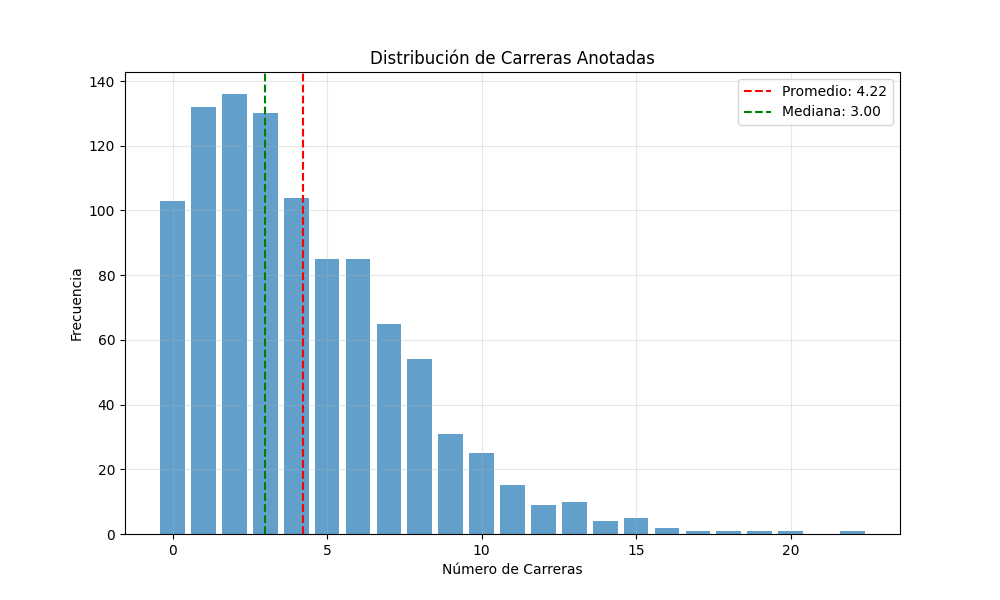
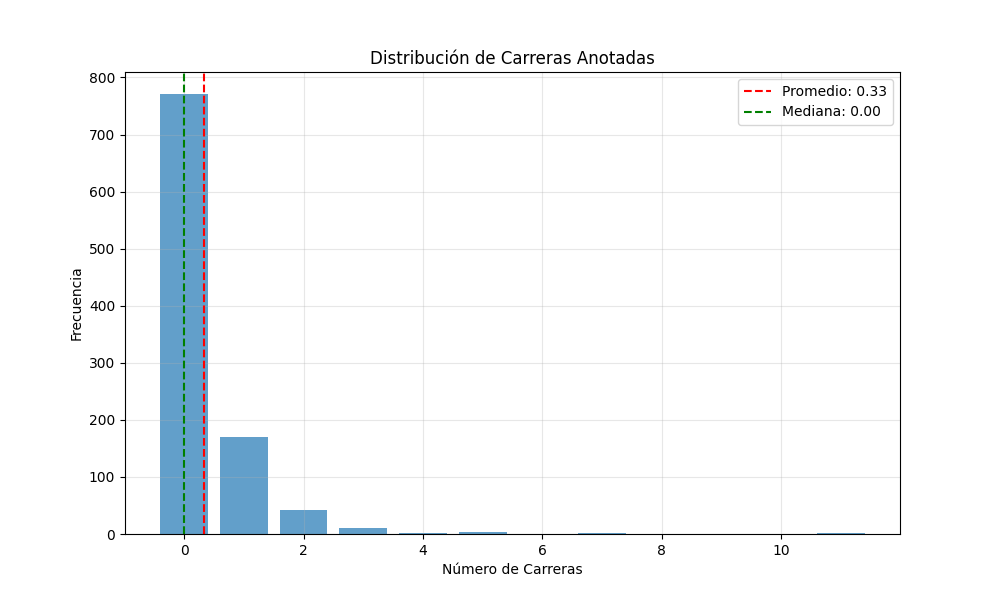
Simulador

diff --git a/optimizador_genetico.py b/optimizador_genetico.py
@@ -14,7 +14,12 @@ class BaseballGeneticOptimizer:
                  crossover_rate: float = 0.8,
                  elitism_count: int = 2):
         self.lineup = lineup
-        self.bullpen_realdata_list = bullpen_realdata_list
+        # Filtrar bullpens vacíos para evitar errores
+        self.bullpen_realdata_list = [
+            (bullpen, real_data)
+            for (bullpen, real_data) in bullpen_realdata_list
+            if bullpen and len(bullpen) > 0
+        ]
         self.population_size = population_size
         self.generations = generations
         self.mutation_rate = mutation_rate
@@ -486,92 +491,101 @@ if __name__ == "__main__":
     ]
     bullpen3 = [
     # Nombre, ERA, WHIP, K/9, Rol, Resistencia
-    Pitcher("Emerson Hancock", 6.91, 1.71, 6.91, PitcherRole.STARTER, 5.0),
-    Pitcher("Casey Legumina", 2.08, 1.15, 7.62, PitcherRole.MIDDLE_RELIEF, 1.0),
-    Pitcher("Eduard Bazardo", 4.74, 1.21, 5.65, PitcherRole.MIDDLE_RELIEF, 1.0),
-    Pitcher("Troy Taylor", 12.00, 2.17, 3.00, PitcherRole.MIDDLE_RELIEF, 1.0),
+        Pitcher("Emerson Hancock", 6.91, 1.71, 6.91, PitcherRole.STARTER, 5.0),
+        Pitcher("Casey Legumina", 2.08, 1.15, 7.62, PitcherRole.MIDDLE_RELIEF, 1.0),
+        Pitcher("Eduard Bazardo", 4.74, 1.21, 5.65, PitcherRole.MIDDLE_RELIEF, 1.0),
+        Pitcher("Troy Taylor", 12.00, 2.17, 3.00, PitcherRole.MIDDLE_RELIEF, 1.0),
 ]
 
     bullpen4 = [
-    Pitcher("Dylan Cease", 4.60, 1.34, 11.11, PitcherRole.STARTER, 6.0),
-    Pitcher("Jason Adam", 1.61, 0.94, 11.28, PitcherRole.SETUP, 1.0),
-    Pitcher("Robert Suarez", 2.84, 0.79, 9.95, PitcherRole.CLOSER, 1.0),
-    Pitcher("Jeremiah Estrada", 2.75, 0.97, 12.43, PitcherRole.MIDDLE_RELIEF, 1.0),
+        Pitcher("Dylan Cease", 4.60, 1.34, 11.11, PitcherRole.STARTER, 6.0),
+        Pitcher("Jason Adam", 1.61, 0.94, 11.28, PitcherRole.SETUP, 1.0),
+        Pitcher("Robert Suarez", 2.84, 0.79, 9.95, PitcherRole.CLOSER, 1.0),
+        Pitcher("Jeremiah Estrada", 2.75, 0.97, 12.43, PitcherRole.MIDDLE_RELIEF, 1.0),
     ]
     bullpen5 = [
         # Nombre, ERA, WHIP, K/9, Rol, Resistencia
-    Pitcher("JP Sears", 2.80, 1.00, 7.20, PitcherRole.STARTER, 6.0),
-    Pitcher("Justin Sterner", 2.21, 1.08, 11.07, PitcherRole.MIDDLE_RELIEF, 1.0),
-    Pitcher("Grant Holman", 0.75, 1.00, 4.50, PitcherRole.MIDDLE_RELIEF, 1.0),
-    Pitcher("Tyler Ferguson", 1.96, 1.04, 7.91, PitcherRole.MIDDLE_RELIEF, 1.0),
-    Pitcher("Mason Miller", 4.70, 0.98, 17.63, PitcherRole.CLOSER, 1.0),
+        Pitcher("JP Sears", 2.80, 1.00, 7.20, PitcherRole.STARTER, 6.0),
+        Pitcher("Justin Sterner", 2.21, 1.08, 11.07, PitcherRole.MIDDLE_RELIEF, 1.0),
+        Pitcher("Grant Holman", 0.75, 1.00, 4.50, PitcherRole.MIDDLE_RELIEF, 1.0),
+        Pitcher("Tyler Ferguson", 1.96, 1.04, 7.91, PitcherRole.MIDDLE_RELIEF, 1.0),
+        Pitcher("Mason Miller", 4.70, 0.98, 17.63, PitcherRole.CLOSER, 1.0),
 
     ]
     #
     bullpen6 = [
-    Pitcher("Michael King", 2.32, 0.99, 10.01, PitcherRole.STARTER, 6.0),
-    Pitcher("Adrián Morejón", 3.57, 1.13, 7.50, PitcherRole.MIDDLE_RELIEF, 1.0),
-    Pitcher("Wandy Peralta", 7.04, 1.57, 6.46, PitcherRole.MIDDLE_RELIEF, 1.0),
-    Pitcher("Ryan Bergert", 0.00, 0.25, 4.50, PitcherRole.MIDDLE_RELIEF, 1.0),
+        Pitcher("Michael King", 2.32, 0.99, 10.01, PitcherRole.STARTER, 6.0),
+        Pitcher("Adrián Morejón", 3.57, 1.13, 7.50, PitcherRole.MIDDLE_RELIEF, 1.0),
+        Pitcher("Wandy Peralta", 7.04, 1.57, 6.46, PitcherRole.MIDDLE_RELIEF, 1.0),
+        Pitcher("Ryan Bergert", 0.00, 0.25, 4.50, PitcherRole.MIDDLE_RELIEF, 1.0),
     ]
     #yankees vs rays 1
     bullpen7 = [
-    Pitcher("Taj Bradley", 4.24, 1.26, 6.75, PitcherRole.STARTER, 6.0),
-    Pitcher("Mason Montgomery", 4.11, 1.11, 11.74, PitcherRole.MIDDLE_RELIEF, 1.0),
-    Pitcher("Manuel Rodríguez", 2.29, 0.92, 8.68, PitcherRole.MIDDLE_RELIEF, 1.0),
-    Pitcher("Mason Englert", 6.00, 1.50, 9.00, PitcherRole.MIDDLE_RELIEF, 1.0),
-    Pitcher("Edwin Uceta", 5.60, 1.53, 8.40, PitcherRole.MIDDLE_RELIEF, 1.0),
-    Pitcher("Pete Fairbanks", 2.65, 1.29, 9.00, PitcherRole.CLOSER, 1.0),
+        Pitcher("Taj Bradley", 4.24, 1.26, 6.75, PitcherRole.STARTER, 6.0),
+        Pitcher("Mason Montgomery", 4.11, 1.11, 11.74, PitcherRole.MIDDLE_RELIEF, 1.0),
+        Pitcher("Manuel Rodríguez", 2.29, 0.92, 8.68, PitcherRole.MIDDLE_RELIEF, 1.0),
+        Pitcher("Mason Englert", 6.00, 1.50, 9.00, PitcherRole.MIDDLE_RELIEF, 1.0),
+        Pitcher("Edwin Uceta", 5.60, 1.53, 8.40, PitcherRole.MIDDLE_RELIEF, 1.0),
+        Pitcher("Pete Fairbanks", 2.65, 1.29, 9.00, PitcherRole.CLOSER, 1.0),
     ]
     #yankees vs rays 2
     bullpen8 = [
-    Pitcher("Zack Littell", 4.31, 1.12, 5.30, PitcherRole.STARTER, 6.0),
-    Pitcher("Garrett Cleavinger", 2.25, 0.75, 10.00, PitcherRole.MIDDLE_RELIEF, 1.0),
-    Pitcher("Edwin Uceta", 5.60, 1.53, 8.40, PitcherRole.MIDDLE_RELIEF, 1.0),
-    Pitcher("Pete Fairbanks", 2.65, 1.29, 8.47, PitcherRole.CLOSER, 1.0),
+        Pitcher("Zack Littell", 4.31, 1.12, 5.30, PitcherRole.STARTER, 6.0),
+        Pitcher("Garrett Cleavinger", 2.25, 0.75, 10.00, PitcherRole.MIDDLE_RELIEF, 1.0),
+        Pitcher("Edwin Uceta", 5.60, 1.53, 8.40, PitcherRole.MIDDLE_RELIEF, 1.0),
+        Pitcher("Pete Fairbanks", 2.65, 1.29, 8.47, PitcherRole.CLOSER, 1.0),
     ]
     bullpen9 = [
         #yankees vs rays 3
-    Pitcher("Ryan Pepiot", 3.93, 1.29, 8.05, PitcherRole.STARTER, 6.0),
-    Pitcher("Mason Montgomery", 4.11, 1.11, 11.74, PitcherRole.MIDDLE_RELIEF, 1.0),
-    Pitcher("Eric Orze", 1.10, 1.35, 4.96, PitcherRole.MIDDLE_RELIEF, 1.0),
-    Pitcher("Manuel Rodríguez", 2.65, 1.06, 8.00, PitcherRole.MIDDLE_RELIEF, 1.0),
-    Pitcher("Garrett Cleavinger", 2.25, 0.75, 10.00, PitcherRole.MIDDLE_RELIEF, 1.0),
+        Pitcher("Ryan Pepiot", 3.93, 1.29, 8.05, PitcherRole.STARTER, 6.0),
+        Pitcher("Mason Montgomery", 4.11, 1.11, 11.74, PitcherRole.MIDDLE_RELIEF, 1.0),
+        Pitcher("Eric Orze", 1.10, 1.35, 4.96, PitcherRole.MIDDLE_RELIEF, 1.0),
+        Pitcher("Manuel Rodríguez", 2.65, 1.06, 8.00, PitcherRole.MIDDLE_RELIEF, 1.0),
+        Pitcher("Garrett Cleavinger", 2.25, 0.75, 10.00, PitcherRole.MIDDLE_RELIEF, 1.0),
     ]
     bullpen10 = [
         #yankees vs baltimore 1
-    Pitcher("Cade Povich", 5.55, 1.54, 7.32, PitcherRole.STARTER, 5.0),
-    Pitcher("Seranthony Domínguez", 4.26, 1.34, 6.80, PitcherRole.MIDDLE_RELIEF, 1.0),
-    Pitcher("Keegan Akin", 3.26, 1.34, 8.40, PitcherRole.MIDDLE_RELIEF, 1.0),
-    Pitcher("Yennier Canó", 4.40, 1.40, 6.40, PitcherRole.MIDDLE_RELIEF, 1.0),
-    Pitcher("Gregory Soto", 4.85, 1.62, 10.38, PitcherRole.MIDDLE_RELIEF, 1.0),
-    Pitcher("Bryan Baker", 2.08, 1.04, 10.38, PitcherRole.MIDDLE_RELIEF, 1.0),
-    Pitcher("Félix Bautista", 2.25, 1.00, 11.25, PitcherRole.CLOSER, 1.0),
+        Pitcher("Cade Povich", 5.55, 1.54, 7.32, PitcherRole.STARTER, 5.0),
+        Pitcher("Seranthony Domínguez", 4.26, 1.34, 6.80, PitcherRole.MIDDLE_RELIEF, 1.0),
+        Pitcher("Keegan Akin", 3.26, 1.34, 8.40, PitcherRole.MIDDLE_RELIEF, 1.0),
+        Pitcher("Yennier Canó", 4.40, 1.40, 6.40, PitcherRole.MIDDLE_RELIEF, 1.0),
+        Pitcher("Gregory Soto", 4.85, 1.62, 10.38, PitcherRole.MIDDLE_RELIEF, 1.0),
+        Pitcher("Bryan Baker", 2.08, 1.04, 10.38, PitcherRole.MIDDLE_RELIEF, 1.0),
+        Pitcher("Félix Bautista", 2.25, 1.00, 11.25, PitcherRole.CLOSER, 1.0),
     ]
     bullpen11 = [
         #yankees vs blue jays 1
-    Pitcher("Chris Bassitt", 3.16, 1.27, 9.64, PitcherRole.STARTER, 6.0),
-    Pitcher("Brendon Little", 1.86, 1.14, 13.5, PitcherRole.MIDDLE_RELIEF, 1.0),
-    Pitcher("Yariel Rodríguez", 4.26, 1.21, 8.83, PitcherRole.MIDDLE_RELIEF, 1.0),
-    Pitcher("Chad Green", 3.38, 1.07, 13.43, PitcherRole.MIDDLE_RELIEF, 1.0),
+        Pitcher("Chris Bassitt", 3.16, 1.27, 9.64, PitcherRole.STARTER, 6.0),
+        Pitcher("Brendon Little", 1.86, 1.14, 13.5, PitcherRole.MIDDLE_RELIEF, 1.0),
+        Pitcher("Yariel Rodríguez", 4.26, 1.21, 8.83, PitcherRole.MIDDLE_RELIEF, 1.0),
+        Pitcher("Chad Green", 3.38, 1.07, 13.43, PitcherRole.MIDDLE_RELIEF, 1.0),
     ]
     bullpen12 = [
         #yankees vs blue jays 2
-    Pitcher("Max Fried", 1.11, 0.94, 8.19, PitcherRole.STARTER, 6.0),
-    Pitcher("Yerry De Los Santos", 0.00, 1.00, 9.00, PitcherRole.MIDDLE_RELIEF, 1.0),
-    Pitcher("Tyler Matzek", 5.40, 3.30, 9.00, PitcherRole.MIDDLE_RELIEF, 1.0),
+        Pitcher("Max Fried", 1.11, 0.94, 8.19, PitcherRole.STARTER, 6.0),
+        Pitcher("Yerry De Los Santos", 0.00, 1.00, 9.00, PitcherRole.MIDDLE_RELIEF, 1.0),
+        Pitcher("Tyler Matzek", 5.40, 3.30, 9.00, PitcherRole.MIDDLE_RELIEF, 1.0),
 
     ]
     bullpen13 = [
         #yankees vs blue jays 3
-    Pitcher("José Berríos", 4.33, 1.42, 8.48, PitcherRole.STARTER, 6.0),
-    Pitcher("Brendon Little", 1.86, 1.14, 13.5, PitcherRole.MIDDLE_RELIEF, 1.0),
-    Pitcher("Yimi García", 3.71, 1.12, 12.71, PitcherRole.MIDDLE_RELIEF, 1.0),
-    Pitcher("Mason Fluharty", 2.16, 0.60, 8.64, PitcherRole.MIDDLE_RELIEF, 1.0),
-    Pitcher("Jeff Hoffman", 6.05, 1.19, 14.42, PitcherRole.CLOSER, 1.0),
+        Pitcher("José Berríos", 4.33, 1.42, 8.48, PitcherRole.STARTER, 6.0),
+        Pitcher("Brendon Little", 1.86, 1.14, 13.5, PitcherRole.MIDDLE_RELIEF, 1.0),
+        Pitcher("Yimi García", 3.71, 1.12, 12.71, PitcherRole.MIDDLE_RELIEF, 1.0),
+        Pitcher("Mason Fluharty", 2.16, 0.60, 8.64, PitcherRole.MIDDLE_RELIEF, 1.0),
+        Pitcher("Jeff Hoffman", 6.05, 1.19, 14.42, PitcherRole.CLOSER, 1.0),
     ]
-    bullpen14 = []
-    bullpen15 = []
+    bullpen14 = [
+        Pitcher("Luis L. Ortiz", 4.78, 1.36, 10.18, PitcherRole.STARTER, 6.0),
+        Pitcher("Joey Cantillo", 4.12, 1.63, 11.89, PitcherRole.MIDDLE_RELIEF, 1.0),
+        Pitcher("Zak Kent", 5.40, 2.00, 10.80, PitcherRole.MIDDLE_RELIEF, 1.0),
+    ]
+    bullpen15 = [
+        Pitcher("Tanner Bibee", 4.06, 1.29, 8.75, PitcherRole.STARTER, 6.0),
+        Pitcher("Tim Herrin", 4.50, 1.38, 10.13, PitcherRole.MIDDLE_RELIEF, 1.0),
+        Pitcher("Hunter Gaddis", 0.53, 1.24, 12.71, PitcherRole.MIDDLE_RELIEF, 1.0),
+        Pitcher("Cade Smith", 2.75, 1.32, 12.81, PitcherRole.MIDDLE_RELIEF, 1.0),
+    ]
     real_game_data1 = {'promedio': 1, 'desviacion': 0, 'minimo': 1, 'maximo': 1}
     real_game_data2 = {'promedio': 12, 'desviacion': 0, 'minimo': 12, 'maximo': 12}
     real_game_data3 = {'promedio': 11, 'desviacion': 0, 'minimo': 11, 'maximo': 11}
@@ -585,8 +599,9 @@ if __name__ == "__main__":
     real_game_data11 = {'promedio': 5, 'desviacion': 0, 'minimo': 5, 'maximo': 5}
     real_game_data12 = {'promedio': 11, 'desviacion': 0, 'minimo': 11, 'maximo': 11}
     real_game_data13 = {'promedio': 2, 'desviacion': 0, 'minimo': 2, 'maximo': 2}
-    real_game_data14 = {'promedio': 0, 'desviacion': 0, 'minimo': 0, 'maximo': 0}
-    real_game_data15 = {'promedio': 0, 'desviacion': 0, 'minimo': 0, 'maximo': 0}
+    real_game_data14 = {'promedio': 5, 'desviacion': 0, 'minimo': 5, 'maximo': 5}
+    real_game_data15 = {'promedio': 2, 'desviacion': 0, 'minimo': 2, 'maximo': 2}
+
     bullpen_realdata_list = [
         (bullpen1, real_game_data1),
         (bullpen2, real_game_data2),
@@ -603,6 +618,13 @@ if __name__ == "__main__":
         (bullpen13, real_game_data13),
         (bullpen14, real_game_data14),
         (bullpen15, real_game_data15),
+    ]
+
+    # Filtrar bullpens vacíos o inválidos ANTES de crear el optimizador
+    bullpen_realdata_list = [
+        (bullpen, real_data)
+        for (bullpen, real_data) in bullpen_realdata_list
+        if bullpen and len(bullpen) > 0 and any(getattr(p, 'current_stamina', 1) > 0 for p in bullpen)
     ]
 
     # Crear el optimizador con los hiperparámetros mejorados

diff --git a/Baseball_simulator.py b/Baseball_simulator.py
@@ -82,10 +82,15 @@ class BaseballSimulator:
         """
         Selecciona el siguiente pitcher basado en el inning y las carreras permitidas.
         """
-        available_pitchers = [p for p in self.bullpen if p.can_pitch()]
+        available_pitchers = [p for p in self.bullpen if getattr(p, 'current_stamina', 1) > 0]
         
         if not available_pitchers:
-            raise Exception("No hay pitchers disponibles")
+            # Si no hay pitchers disponibles, mantener el actual y darle 1 de stamina
+            if hasattr(self, 'current_pitcher') and self.current_pitcher is not None:
+                self.current_pitcher.current_stamina = 1
+                return self.current_pitcher
+            else:
+                raise Exception("No hay pitchers disponibles y no hay pitcher actual")
         
         # Si es el primer inning, usar el abridor
         if inning == 1:
@@ -132,19 +137,19 @@ class BaseballSimulator:
         Retorna un factor de ajuste para las probabilidades de los bateadores.
         """
         # Factor base basado en ERA (más bajo es mejor)
-        era_factor = 5.0 / pitcher.era if pitcher.era > 0 else 1.0
+        era_factor = 4.62 / pitcher.era if pitcher.era > 0 else 1.0
         
         # Factor de WHIP (más bajo es mejor)
-        whip_factor = 1.5 / pitcher.whip if pitcher.whip > 0 else 1.0
+        whip_factor = 0.96 / pitcher.whip if pitcher.whip > 0 else 1.0
         
         # Factor de K/9 (más alto es mejor)
-        k_factor = pitcher.k_per_9 / 9.0
+        k_factor = pitcher.k_per_9 / 1.52
         
         # Factor de resistencia (afecta más cuando está bajo)
-        stamina_factor = pitcher.current_stamina ** 2  # Cuadrático para mayor impacto
+        stamina_factor = pitcher.current_stamina ** 1.32  # Cuadrático para mayor impacto
         
         # Factor de presión (afecta más en situaciones importantes)
-        pressure_factor = 1.0
+        pressure_factor = 0.94
         if self.innings_pitched >= 6:  # Lanzando muchas entradas
             pressure_factor *= 0.9
         if self.runs_allowed > 3:  # Permitiendo muchas carreras
@@ -374,6 +379,57 @@ class BaseballSimulator:
                 }
         return stats
 
+class CustomBaseballSimulator(BaseballSimulator):
+    def __init__(self, lineup, bullpen):
+        super().__init__(lineup, bullpen)
+        self.obp_weight = 1.61
+        self.avg_weight = 0.81
+        self.slg_weight = 1.41
+        self.clutch_factor = 1.35
+
+    def _simulate_at_bat(self, batter: Player, pitcher_factor: float) -> str:
+        # Ajustar probabilidades basado en los pesos personalizados
+        adjusted_obp = min((batter.obp * self.obp_weight) / pitcher_factor, 0.55)
+        adjusted_avg = min((batter.batting_avg * self.avg_weight) / pitcher_factor, 0.42)
+        adjusted_slg = min((batter.slugging * self.slg_weight) / pitcher_factor, 1.0)
+
+        # Clutch: si hay corredores en base, aumentar ligeramente la probabilidad de hit
+        clutch_multiplier = self.clutch_factor if sum(getattr(self, 'bases', [False, False, False])) > 0 else 1.0
+        adjusted_obp *= clutch_multiplier
+        adjusted_avg *= clutch_multiplier
+        adjusted_slg *= clutch_multiplier
+
+        # Calcular probabilidad de strikeout basada en K/9 del pitcher
+        k_prob = min((self.current_pitcher.k_per_9 / 27.0) * pitcher_factor, 0.25)
+        # Calcular probabilidad de walk basada en WHIP del pitcher
+        walk_prob = max(min((self.current_pitcher.whip - 1.0) * 0.15, 0.10), 0)
+        # Probabilidad de hit es la diferencia entre OBP y BB
+        hit_prob = max(adjusted_obp - walk_prob, 0)
+        # Probabilidad de out es el resto
+        out_prob = max(1.0 - (k_prob + walk_prob + hit_prob), 0)
+
+        rand = np.random.random()
+        if rand < k_prob:
+            return 'out'
+        elif rand < k_prob + walk_prob:
+            return 'walk'
+        elif rand < k_prob + walk_prob + hit_prob:
+            # Determinar tipo de hit según AVG y SLG
+            hit_type = np.random.random()
+            single_prob = min(adjusted_avg / adjusted_obp, 0.85)
+            double_prob = min((adjusted_slg - adjusted_avg) / adjusted_slg, 0.10)
+            triple_prob = 0.03  # Fijo, poco frecuente
+            if hit_type < single_prob:
+                return 'single'
+            elif hit_type < single_prob + double_prob:
+                return 'double'
+            elif hit_type < single_prob + double_prob + triple_prob:
+                return 'triple'
+            else:
+                return 'homerun'
+        else:
+            return 'out'
+
 # Ejemplo de uso
 if __name__ == "__main__":
     # Crear una alineación completa de jugadores con estadísticas reales
@@ -399,18 +455,18 @@ if __name__ == "__main__":
     Pitcher("Hogan Harris", 4.38, 1.38, 10.22, PitcherRole.MIDDLE_RELIEF, 2.0),
 ]
 
-    
-    # Crear el simulador
+    # Crear el simulador con pesos personalizados de bateadores
     simulator = BaseballSimulator(lineup, bullpen)
-    
-    # Simular 1000 veces el mismo partido
     resultados = simulator.monte_carlo_game_simulation(num_simulations=1000, num_innings=9)
-    
-    # Ver los resultados
     print(f"Promedio de carreras: {resultados['promedio']:.2f} ± {resultados['desviacion']:.2f}")
     print(f"Rango de carreras: {resultados['minimo']} - {resultados['maximo']}")
-    
-    # Ver la distribución completa
     for carreras, frecuencia in zip(resultados['bins'], resultados['distribucion']):
         print(f"{carreras} carreras: {frecuencia} veces")
-    
+
+    print("\nSimulación con pesos personalizados de bateadores:")
+    custom_simulator = CustomBaseballSimulator(lineup, bullpen)
+    resultados_custom = custom_simulator.monte_carlo_game_simulation(num_simulations=1000, num_innings=9)
+    print(f"Promedio de carreras: {resultados_custom['promedio']:.2f} ± {resultados_custom['desviacion']:.2f}")
+    print(f"Rango de carreras: {resultados_custom['minimo']} - {resultados_custom['maximo']}")
+    for carreras, frecuencia in zip(resultados_custom['bins'], resultados_custom['distribucion']):
+        print(f"{carreras} carreras: {frecuencia} veces")
